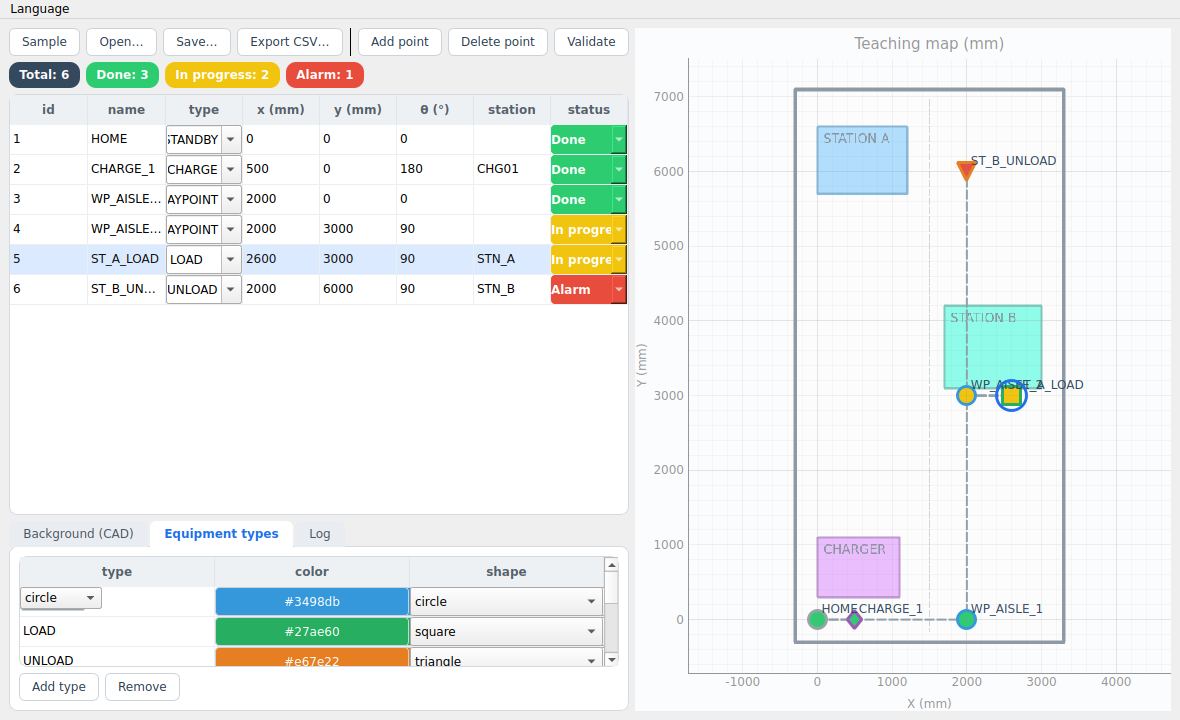
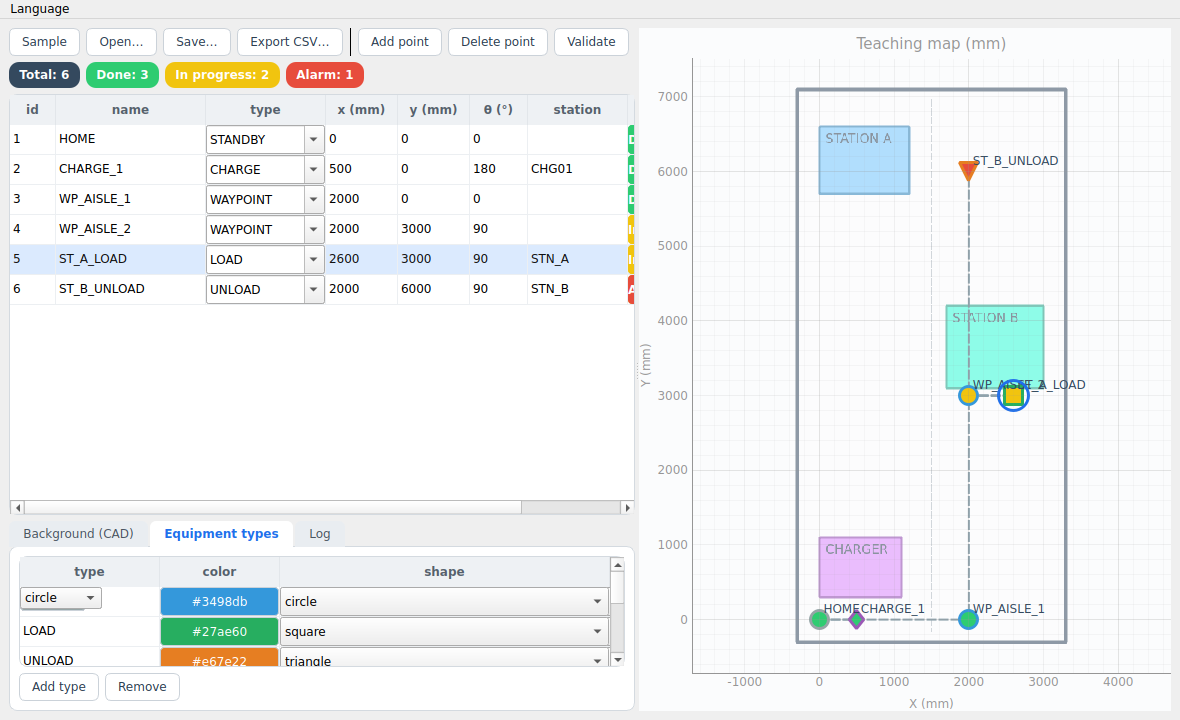
fix(teaching): resizable table columns + table/map splitter
Table columns were Stretch-mode (equal width, not draggable), so long names
and the type/status combos were truncated. Now:

- Columns are user-resizable (Interactive header) with sensible default widths
  and a horizontal scrollbar; long names/types/stations show in full.
- A horizontal splitter between the controls and the map lets the user trade
  table width for map width by dragging.
- Same treatment for the Equipment-types table.

Regenerates the teaching screenshots.

Claude-Session: https://claude.ai/code/session_01SMx3kMszBaXJdasZZp8uTo

diff --git a/src/fae_toolkit/teaching_manager/view.py b/src/fae_toolkit/teaching_manager/view.py
@@ -28,6 +28,7 @@ from PySide6.QtWidgets import (
     QPlainTextEdit,
     QPushButton,
     QSlider,
+    QSplitter,
     QTableWidget,
     QTableWidgetItem,
     QTabWidget,
@@ -140,13 +141,21 @@ class TeachingView(QWidget):
     # --- UI construction -------------------------------------------------- #
     def _build_ui(self) -> None:
         root = QHBoxLayout(self)
-        left = QVBoxLayout()
+        left_widget = QWidget()
+        left = QVBoxLayout(left_widget)
+        left.setContentsMargins(0, 0, 0, 0)
         left.addLayout(self._build_toolbar())
         left.addLayout(self._build_dashboard())
         left.addWidget(self._build_table(), stretch=1)
         left.addWidget(self._build_bottom_tabs())
-        root.addLayout(left, stretch=3)
-        root.addWidget(self._build_map(), stretch=5)
+        # A draggable splitter lets the user trade table width for map width.
+        splitter = QSplitter(Qt.Orientation.Horizontal)
+        splitter.addWidget(left_widget)
+        splitter.addWidget(self._build_map())
+        splitter.setStretchFactor(0, 4)
+        splitter.setStretchFactor(1, 5)
+        splitter.setSizes([660, 560])
+        root.addWidget(splitter)
 
     def _build_toolbar(self) -> QHBoxLayout:
         bar = QHBoxLayout()
@@ -187,10 +196,17 @@ class TeachingView(QWidget):
 
     def _build_table(self) -> QTableWidget:
         self.table = QTableWidget(0, len(_COLUMNS))
-        self.table.horizontalHeader().setSectionResizeMode(QHeaderView.ResizeMode.Stretch)
+        header = self.table.horizontalHeader()
+        # User-resizable columns (drag the borders); last column fills the rest.
+        header.setSectionResizeMode(QHeaderView.ResizeMode.Interactive)
+        header.setStretchLastSection(True)
+        header.setMinimumSectionSize(40)
         self.table.setSelectionBehavior(QAbstractItemView.SelectionBehavior.SelectRows)
         self.table.setSelectionMode(QAbstractItemView.SelectionMode.SingleSelection)
+        self.table.setHorizontalScrollMode(QAbstractItemView.ScrollMode.ScrollPerPixel)
         self.table.verticalHeader().setVisible(False)
+        for col, width in enumerate((46, 150, 120, 72, 72, 58, 100, 130)):
+            self.table.setColumnWidth(col, width)
         self.table.itemChanged.connect(self._on_item_changed)
         self.table.itemSelectionChanged.connect(self._redraw_map)
         return self.table
@@ -247,7 +263,11 @@ class TeachingView(QWidget):
         w = QWidget()
         layout = QVBoxLayout(w)
         self.types_table = QTableWidget(0, 3)
-        self.types_table.horizontalHeader().setSectionResizeMode(QHeaderView.ResizeMode.Stretch)
+        th = self.types_table.horizontalHeader()
+        th.setSectionResizeMode(QHeaderView.ResizeMode.Interactive)
+        th.setStretchLastSection(True)
+        self.types_table.setColumnWidth(0, 140)
+        self.types_table.setColumnWidth(1, 120)
         self.types_table.verticalHeader().setVisible(False)
         layout.addWidget(self.types_table, stretch=1)
         row = QHBoxLayout()

diff --git a/CHANGELOG.md b/CHANGELOG.md
@@ -17,6 +17,8 @@ Windows/Linux executables to the GitHub Release automatically.
   - **Customisable equipment types**: pick a colour and marker shape per type,
     and add your own types (marker shape = type, outline = type colour).
   - Modernised look (styled toolbar, status chips, tabbed Background/Types/Log).
+  - Resizable table columns (drag the borders) + a draggable splitter between
+    the table and the map, so long names/types are no longer truncated.
 - Bilingual documentation (Korean default + English `*.en.md`): USAGE,
   DEVELOPMENT, PORTFOLIO, HARDWARE; README architecture as a Mermaid diagram.
 